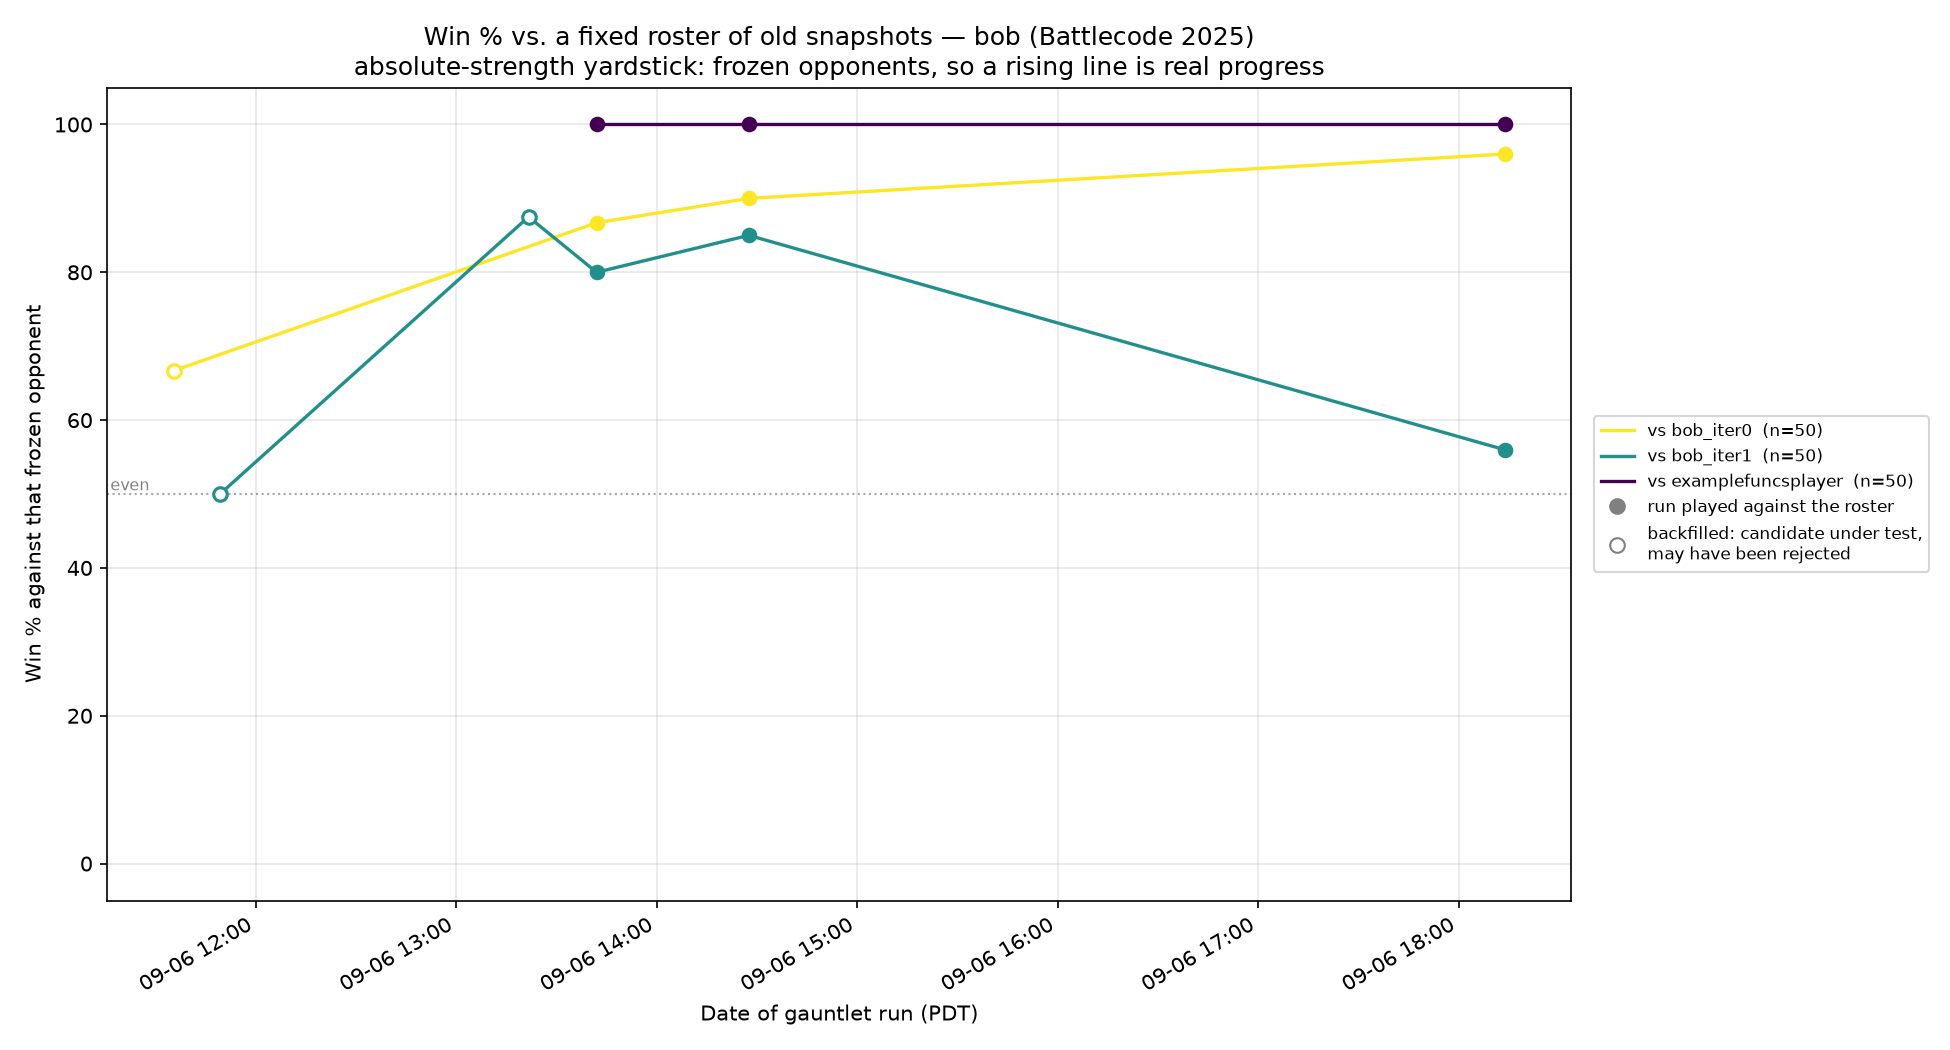
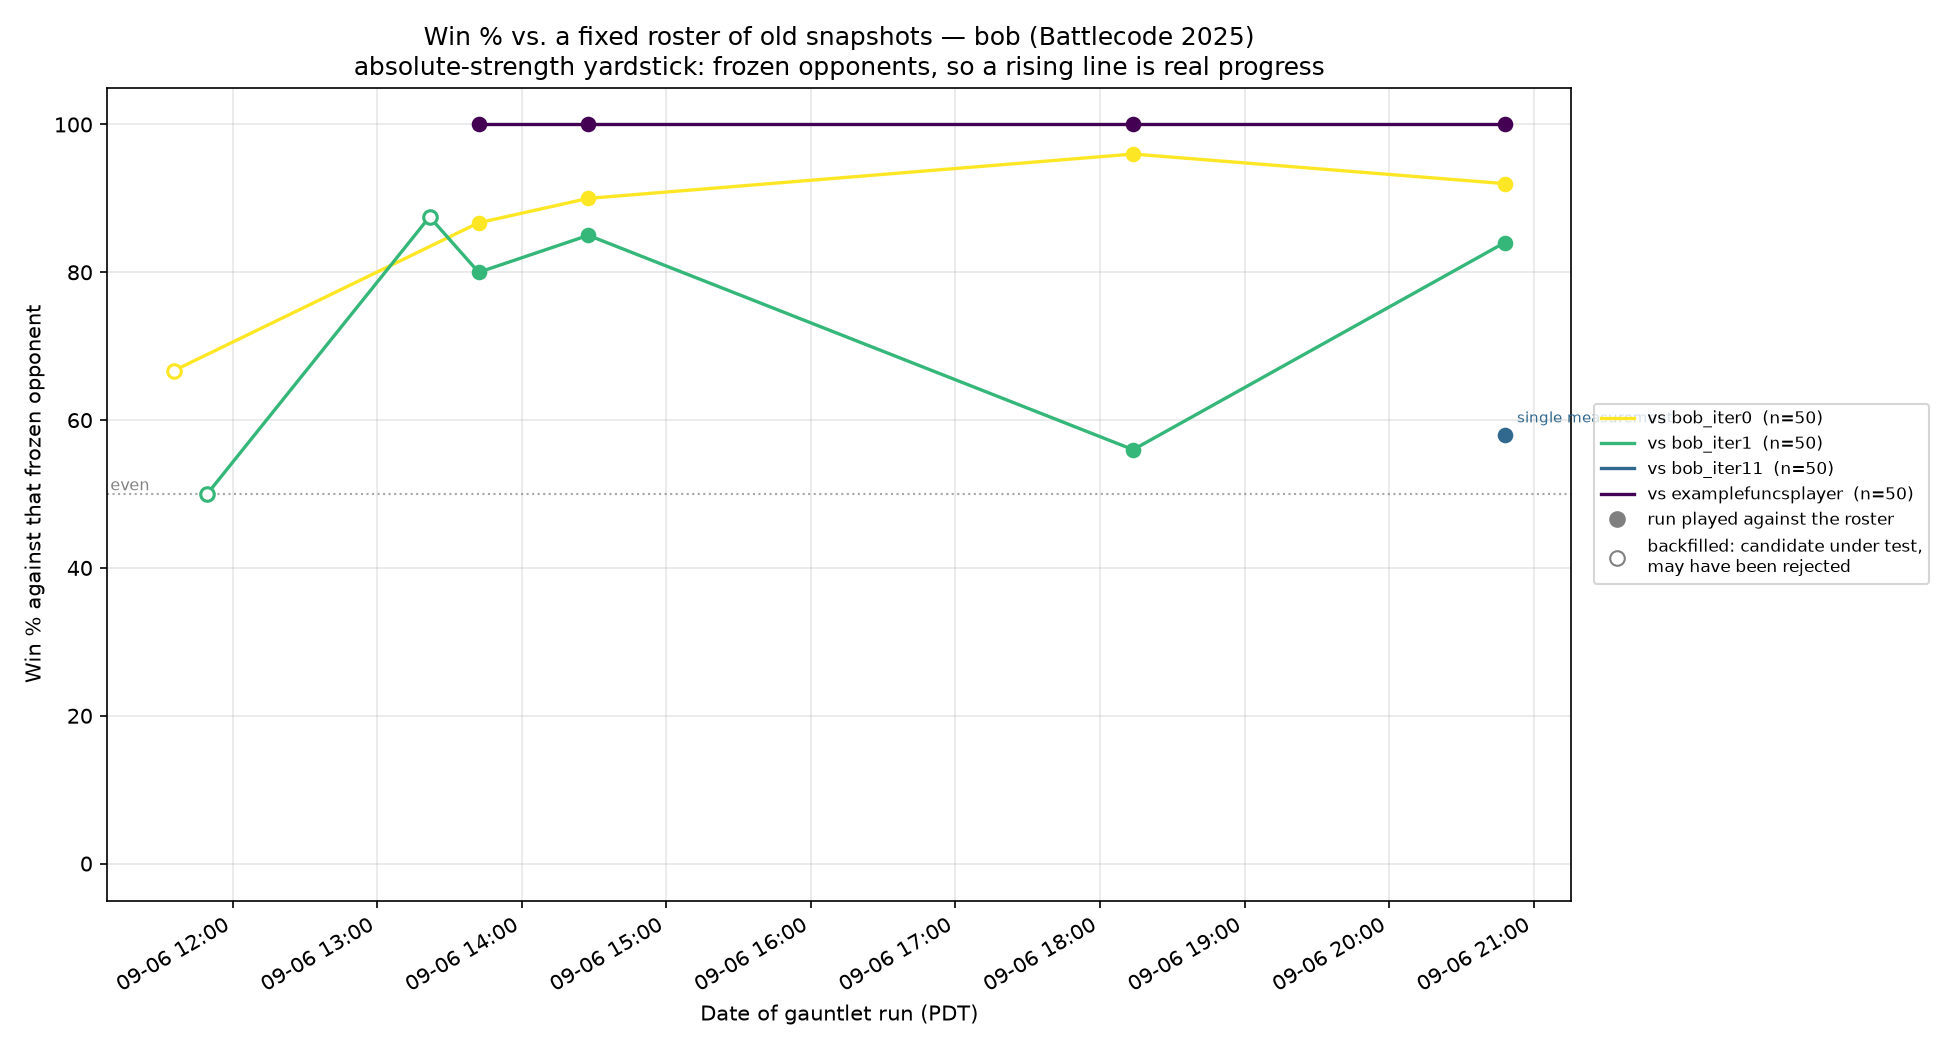
bob: roster re-measured from iteration 12 -- six swept losses to zero
Run 20260907-034757, 200 games, fresh sample, label bob_iter12, dirty=0.
  vs bob_iter0          46/50  92%   swept 21-0
  vs bob_iter1          42/50  84%   swept 17-0
  vs bob_iter11         29/50  58%   swept  7-3
  vs examplefuncsplayer 50/50 100%   swept 25-0

Against the measured null of zero sweeps, the whole regression story is one
line: bob_iter9 lost SIX maps from both sides to a bot frozen eleven
iterations ago (9W/6L); bob_iter12 loses none (17W/0L). Win rate back to
iteration 3 level, 84% vs 85%.

The only opponent taking a swept map off the current bot is bob_iter11, the
immediately preceding snapshot -- exactly where the contest should be. That
arm is the narrowest on the board at 58%, and it should be: iteration 12
differs from iter11 by REMOVING two things, so 58% and +4 net sweeps by
deleting code is a good trade but not a large advance.

Honest summary: iterations 7-11 netted approximately zero in absolute terms.
The bot is where iteration 3 stood, but with SRPs actually working and three
instruments that did not exist this morning -- the mirror null, deviation
attribution, and pairwise ablation.

Claude-Session: https://claude.ai/code/session_01AaaGzxRUmH5UDEVerTki8y

diff --git a/agents/bob/TRAINING_LOG.md b/agents/bob/TRAINING_LOG.md
@@ -3838,3 +3838,63 @@ compile-checked. It is queued behind the roster run; one gauntlet per workspace.
    have no roster drop pointing at this feature — I am testing a *prediction* from the
    lesson rather than diagnosing a known failure, and "the upgrade still pays despite
    the arithmetic" would be a genuine correction to my model of the economy.
+
+
+---
+
+## Fixed-roster re-measurement from the iteration 12 baseline (2026-09-07)
+
+Run `20260907-034757`, 200 games, fresh 25-map sample, `bot.txt` label **`bob_iter12`**,
+`dirty=0`. This is the companion point the 41/50 needed.
+
+```
+                      games        sweptW  sweptL  split      MIRROR NULL: 0 / 0
+vs bob_iter0         46/50  92%      21      0       4
+vs bob_iter1         42/50  84%      17      0       8
+vs bob_iter11        29/50  58%       7      3      15
+vs examplefuncsplayer 50/50 100%     25      0       0
+overall             167/200 83.5%
+```
+
+### The regression is repaired, and the sweep view says it cleanly
+
+```
+vs frozen bob_iter1        games     sweptW   sweptL
+bob_iter3  (2026-09-06)    34/40  85%    —       —
+bob_iter9  (2026-09-07)    28/50  56%    9       6      <- the regression
+bob_iter12 (2026-09-07)    42/50  84%   17       0      <- repaired
+```
+
+**Six swept losses to zero.** Against a measured null of zero sweeps, that is the whole
+finding in one line: iteration 9 was losing six maps from *both* sides to a bot frozen
+eleven iterations ago, and iteration 12 loses none. The win rate is back to iteration
+3's level (84% against 85%) while the lineage has kept everything else it learned.
+
+`bob_iter0` (21-0) and `examplefuncsplayer` (25-0) also show zero swept losses. **The
+only opponent that takes a swept map off the current bot is `bob_iter11`** — the
+immediately preceding snapshot, which is exactly where the remaining contest should be.
+
+### Reading the `bob_iter11` arm honestly
+
+58% (29/50), swept 7-3. Iteration 12 beats the build it replaced, but this is the
+narrowest margin on the board, and it should be: iteration 12 differs from
+`bob_iter11` by *removing* two things (the hash and the ruin memory) rather than adding
+anything. Getting 58% and +4 net sweeps by deleting code is a good trade, but it is not
+a claim of a large advance — the advance was undoing damage.
+
+The 15 split maps mean the two builds genuinely diverge on most of the pool while
+netting out close, which is the same high-variance signature the ruin memory showed in
+its own attribution. That is consistent and expected.
+
+### Where this leaves the lineage
+
+Seven accepted snapshots, and the honest summary of absolute progress is that
+**iterations 7 through 11 netted approximately zero** — iteration 7 was a coin-flip
+accept that became a liability, iteration 9 was a genuine mechanism that the liability
+poisoned, and iteration 11 was a compensating fix that stopped paying once the
+liability was removed. The bot is now roughly where iteration 3 stood against the frozen
+opponent, but with SRPs actually working and with three durable instruments that did not
+exist this morning: the mirror null, deviation attribution, and pairwise ablation.
+
+That is not a comfortable result to write down, and it is the correct one. The next
+accept has to clear iteration 12 on the frozen instrument, not just head-to-head.
